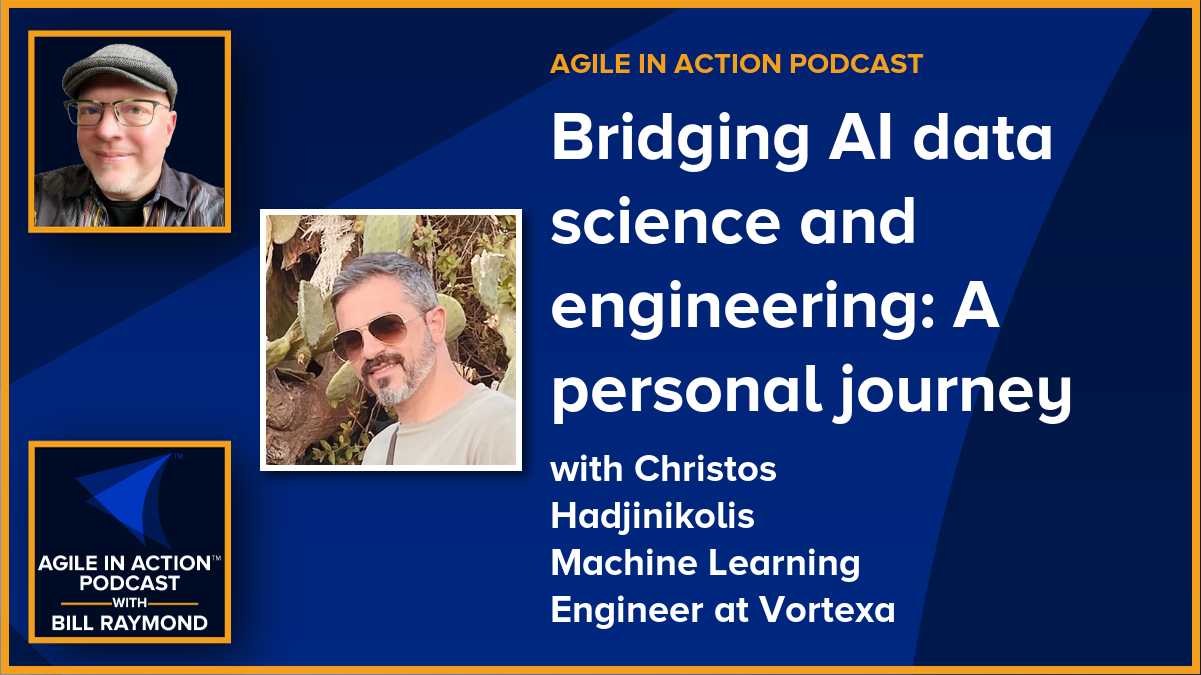
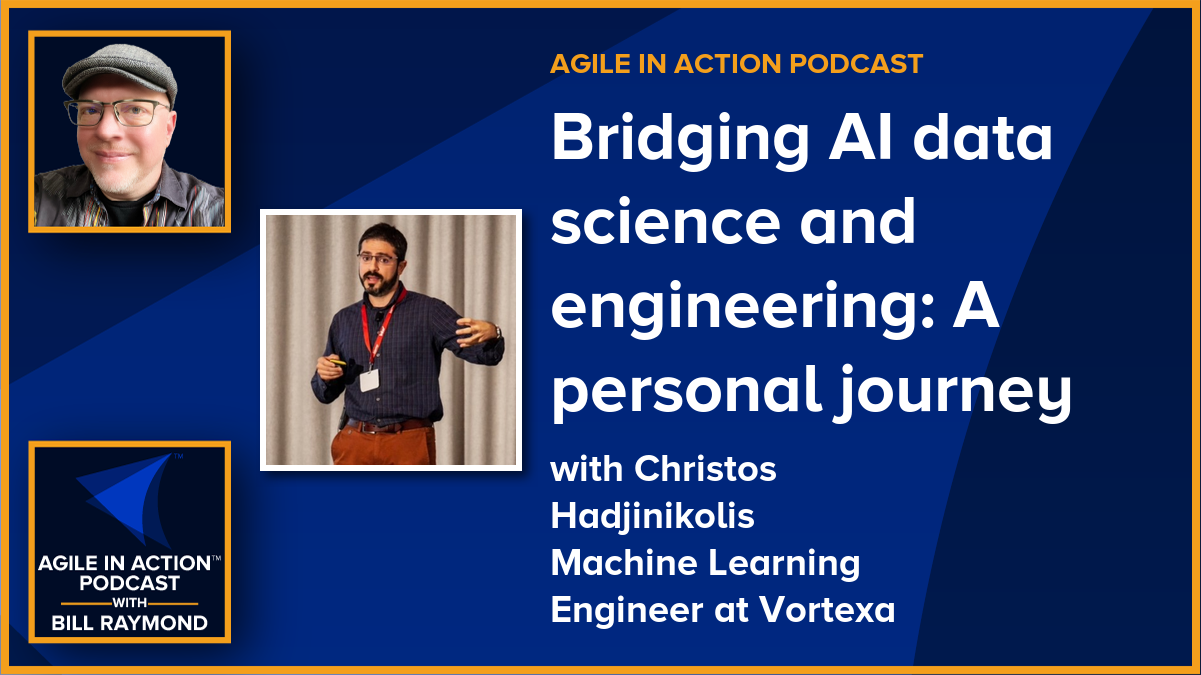
finalize christos

Changed region(s): [[0.2157, 0.3111, 0.4313, 0.7156]]

diff --git a/_posts/2023-10-31-bridging-ai-data-science-and-engineering-a-personal-journey.md b/_posts/2023-10-31-bridging-ai-data-science-and-engineering-a-personal-journey.md
@@ -10,7 +10,7 @@ youtubeurl: https://youtu.be/LdDasrMOJLs
 guest-details:
   - guest-name: Christos Hadjinikolis
     guest-title: Machine Learning Engineer at Vortexa
-    guest-photo: /uploads/Christos-Hadjinikolis.jpeg
+    guest-photo: /uploads/christos-hadjinikolis-v2.jpeg
     guest-links:
       - guest-link-label: 🌎 Christos on LinkedIn
         guest-link-url: https://www.linkedin.com/in/christoshadjinikolis/
